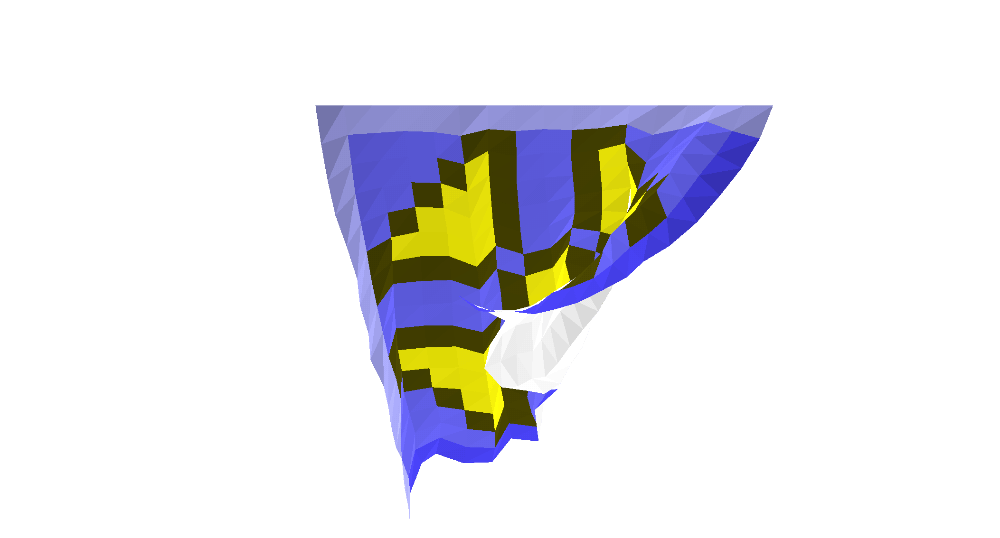
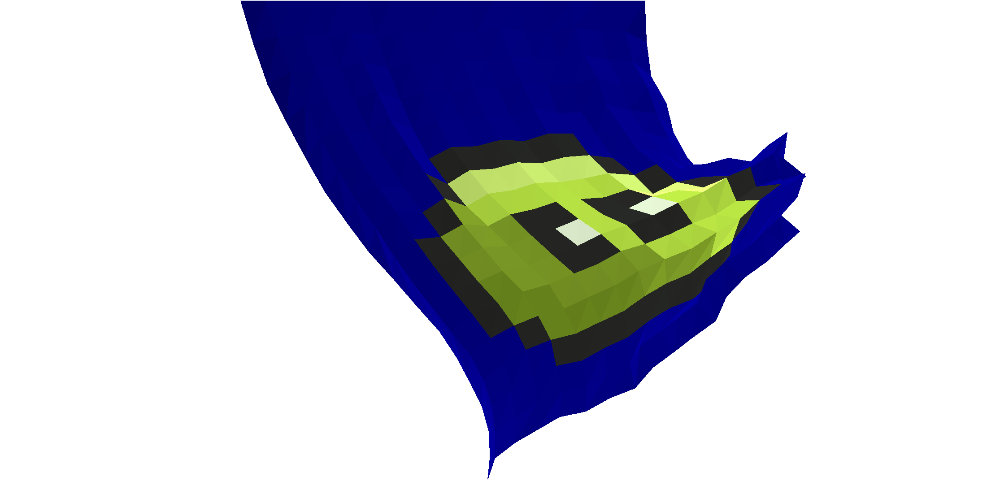
Blogpost on cloth (#914)

diff --git a/screwbox-core/src/main/java/dev/screwbox/core/environment/softphysics/SoftPhysicsSupport.java b/screwbox-core/src/main/java/dev/screwbox/core/environment/softphysics/SoftPhysicsSupport.java
@@ -252,7 +252,7 @@ public final class SoftPhysicsSupport {
     public static ClothEntities createCloth(final Bounds bounds, final Size meshSize, final IdPool idPool) {
         final var fullSize = meshSize.expand(1);
         final Map<Offset, Entity> clothMap = new HashMap<>();
-        for (var offset : fullSize.all()) {
+        for (final var offset : fullSize.all()) {
             final Vector position = bounds.origin().add(offset.x() * bounds.width() / fullSize.width(), offset.y() * bounds.height() / fullSize.height());
             clothMap.put(offset, new Entity(idPool.allocateId())
                 .bounds(Bounds.atOrigin(position, 1, 1))
@@ -287,7 +287,7 @@ public final class SoftPhysicsSupport {
         for (int index = 0; index < fullSize.height(); index++) {
             clothMap.get(Offset.at(0, index)).tag("cloth-left-border");
         }
-        for (int index = 0; index < fullSize.width(); index++) {
+        for (int index = 0; index < fullSize.height(); index++) {
             clothMap.get(Offset.at(fullSize.width() - 1, index)).tag("cloth-right-border");
         }
         for (var offset : fullSize.outline()) {

diff --git a/screwbox-core/src/main/java/dev/screwbox/core/environment/softphysics/ClothRenderSystem.java b/screwbox-core/src/main/java/dev/screwbox/core/environment/softphysics/ClothRenderSystem.java
@@ -36,7 +36,7 @@ public class ClothRenderSystem implements EntitySystem {
 
     private static void renderCloth(final Engine engine, final ClothComponent clothConfig, final ClothRenderComponent renderConfig) {
         final Graphics graphics = engine.graphics();
-        final double referenceArea = clothConfig.meshCellSize.pixelCount() / (renderConfig.detailed ? 2.0 : 1.0);
+        final double referenceArea = renderConfig.detailed ? clothConfig.meshCellSize.pixelCount() / 2.0 : clothConfig.meshCellSize.pixelCount();
         final double drawingDistance = Math.max(clothConfig.meshCellSize.width(), clothConfig.meshCellSize.height());
         final int meshWidth = clothConfig.mesh.length - 1;
         final int meshHeight = clothConfig.mesh[0].length - 1;

diff --git a/docs/blog/2026-01-16-dynamic-cloth.md b/docs/blog/2026-01-16-dynamic-cloth.md
@@ -1,0 +1,21 @@
+---
+title: Dynamic cloth
+authors: [srcimon]
+tags: [new-features]
+---
+
+Hello there,
+
+the first update of 2026 adds dynamic cloth soft bodies.
+Cloth soft bodies support a new mesh shading rendering algorithm to create some 3D like optics.
+Cloth rendering also supports (animated) textures.
+I've uploaded a short demo for the new feature on [Youtube](https://youtube.com/shorts/O_hHkgLcF_4?feature=share).
+
+![cloth.png](../docs/guides/soft-physics/cloth.png)
+
+As the  creation of soft bodies gets more and more complex, the new `SoftPhysicsSupport` is here to help you.
+The class can create all kinds of soft bodies with a single line of code.
+Also there is some support to make customizing easier.
+The [soft physics guide](/docs/guides/soft-physics) is a good place to start if you want to learn more.
+
+<!-- truncate -->

diff --git a/UNRELEASED-CHANGES.md b/UNRELEASED-CHANGES.md
@@ -4,7 +4,7 @@
 - 
 ### 🪛 Bug Fixes
 
-- ...
+- Fixed exception when creating cloth of certain size
 
 ### 🧽 Cleanup & refactoring
 
